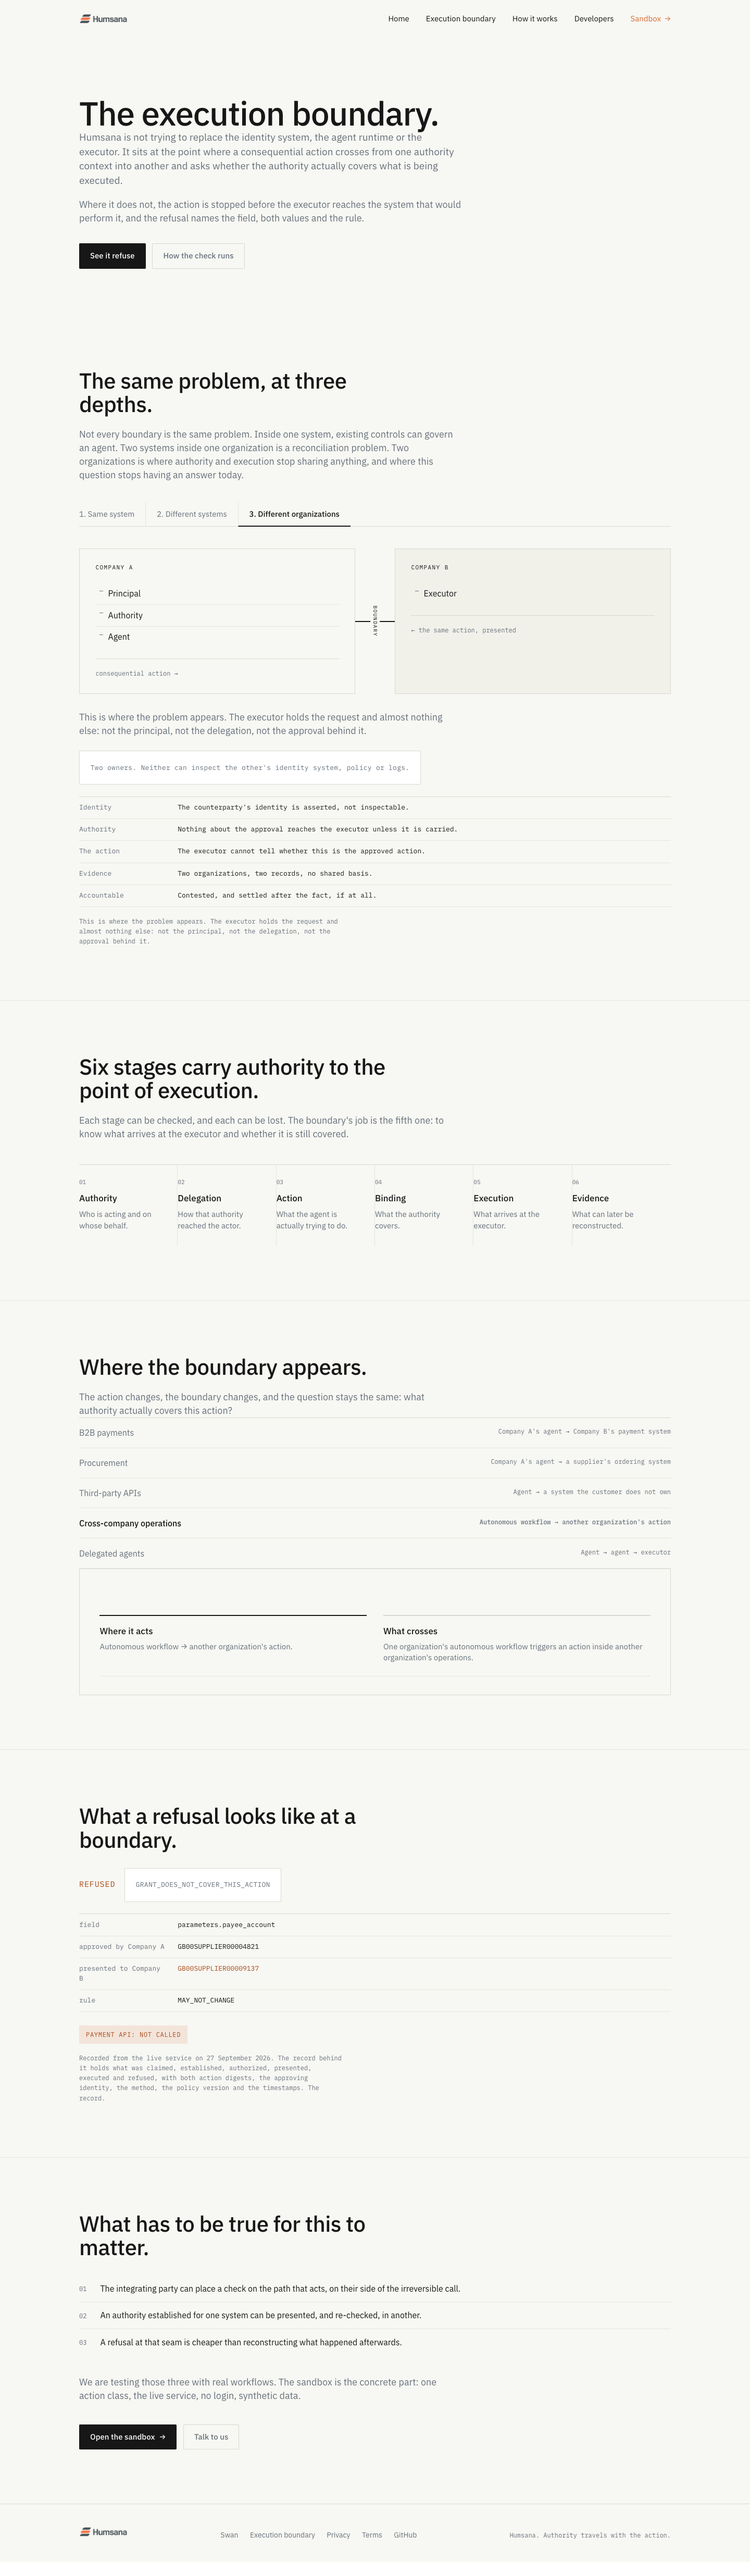
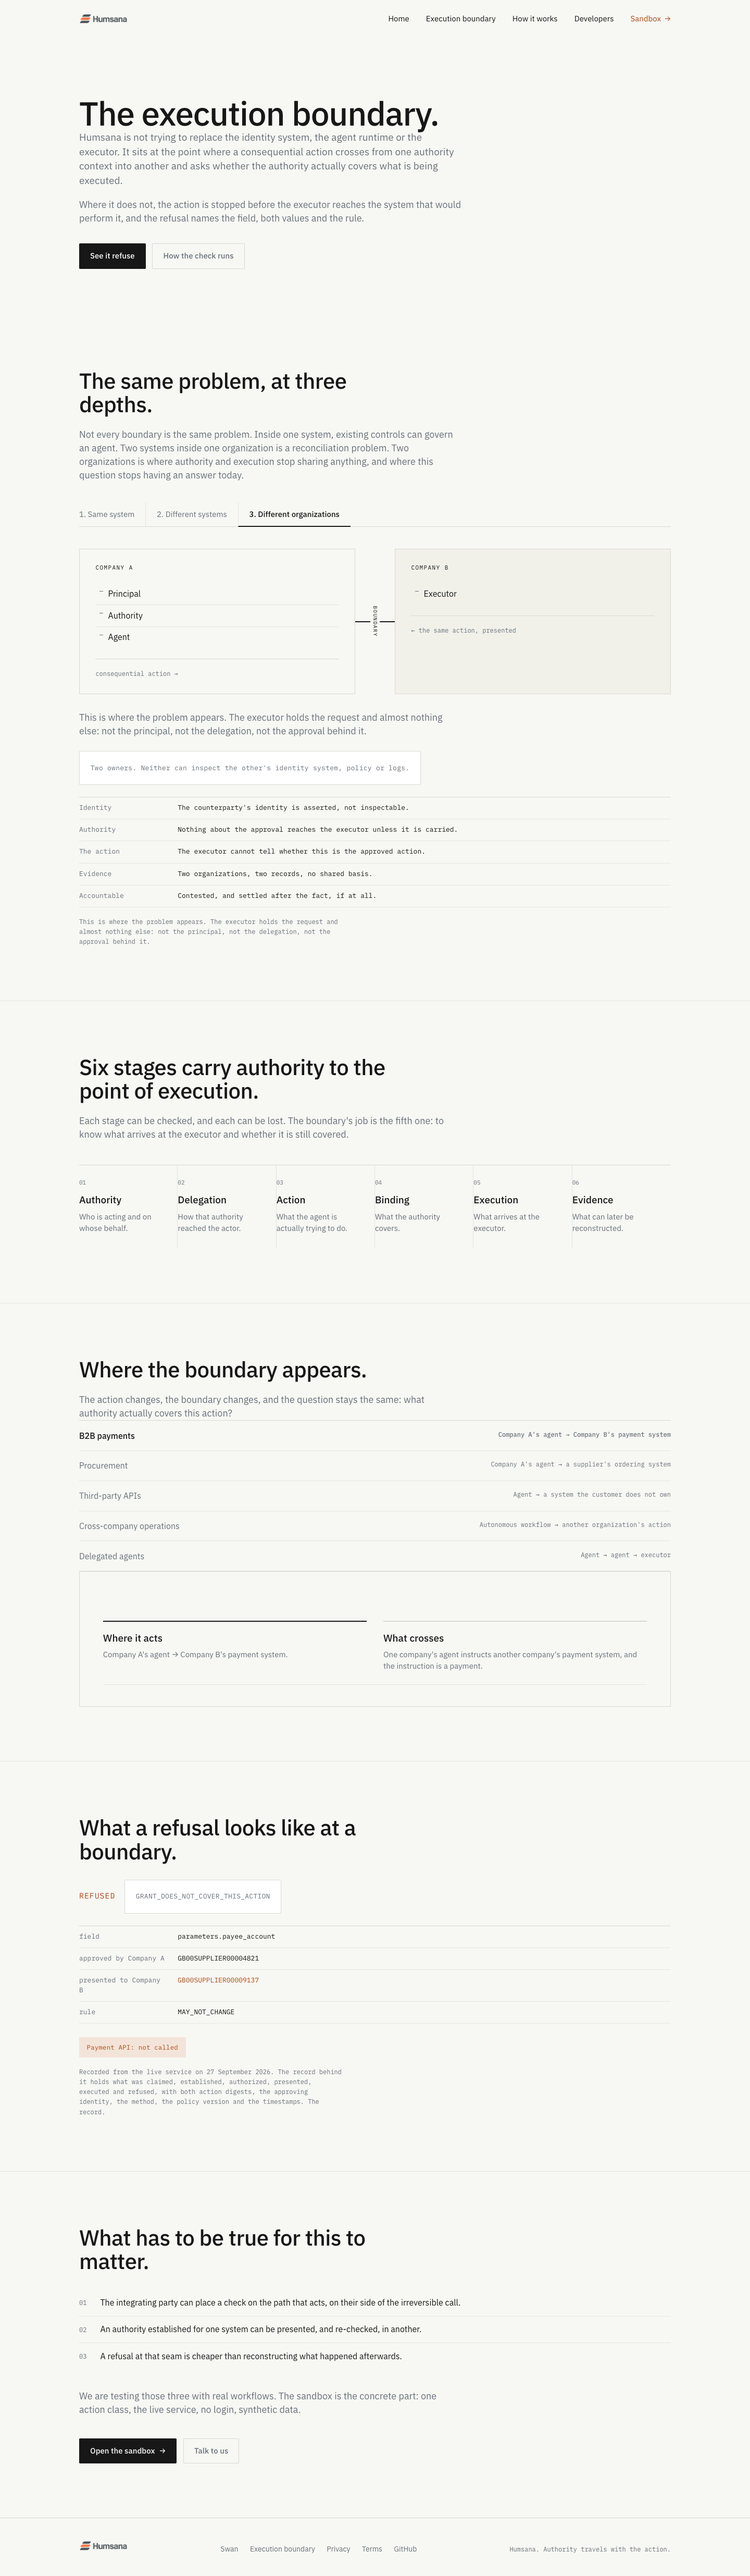
Let the two regions sit level, with the presented action anchored to the foot

diff --git a/style.css b/style.css
@@ -332,14 +332,14 @@ a:focus-visible,button:focus-visible{outline:2px solid var(--accent);outline-off
 
 /* the topology: one action crossing one boundary */
 .scene{display:grid;grid-template-columns:1fr 76px 1fr;align-items:stretch;margin-top:2.6rem}
-.scene .party{padding:1.8rem 1.9rem;border:1px solid var(--line)}
+.scene .party{padding:1.8rem 1.9rem;border:1px solid var(--line);display:flex;flex-direction:column}
 .scene .party.b{background:var(--warm)}
 .scene .party .pname{font-family:var(--mono);font-size:11px;letter-spacing:.13em;text-transform:uppercase;color:var(--ink);display:block}
 .scene ol{list-style:none;margin:1.3rem 0 0}
 .scene ol li{position:relative;padding:.55rem 0 .55rem 1.5rem;font-size:16px;color:var(--ink);border-top:1px solid var(--line-soft)}
 .scene ol li:first-child{border-top:0}
 .scene ol li::before{content:"";position:absolute;left:.45rem;top:.95rem;width:.45rem;height:1px;background:var(--dim)}
-.scene .act{display:block;margin-top:1.3rem;padding-top:1.2rem;border-top:1px solid var(--line);font-family:var(--mono);font-size:12px;color:var(--muted)}
+.scene .act{display:block;margin-top:auto;padding-top:1.2rem;padding-top:1.2rem;border-top:1px solid var(--line);font-family:var(--mono);font-size:12px;color:var(--muted)}
 .scene .gap{position:relative}
 .scene .gap i{position:absolute;top:50%;left:0;right:0;height:2px;background:var(--ink)}
 .scene .gap span{position:absolute;top:50%;left:50%;transform:translate(-50%,-50%);background:var(--bg);padding:.3rem .1rem;font-family:var(--mono);font-size:10px;letter-spacing:.14em;text-transform:uppercase;color:var(--ink);writing-mode:vertical-rl}
